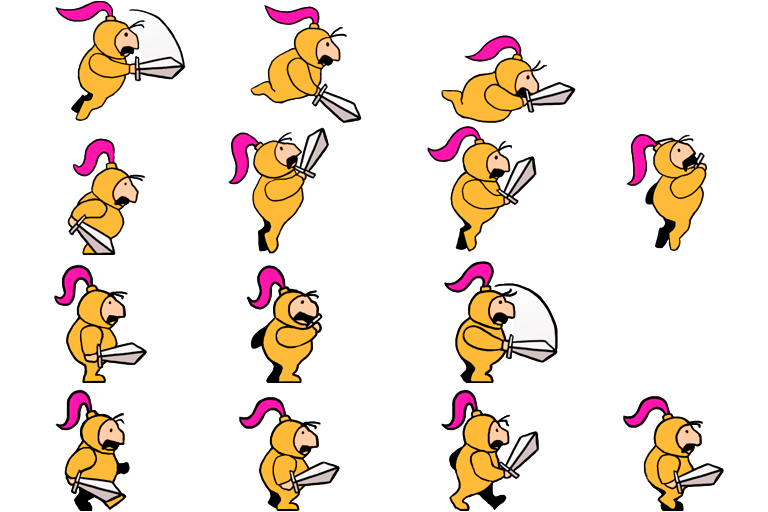
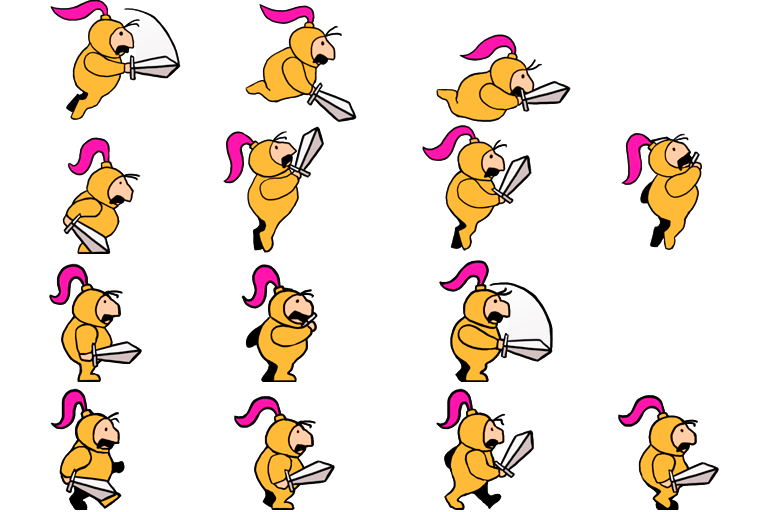
モーション変更

diff --git a/src/app.js b/src/app.js
@@ -2,11 +2,11 @@ var size;
 //1:地面　2:ブロック　3:プレイヤ　4:ゾンビ 5:こうもり
 var level = [
    [0, 0, 0, 0, 0, 0, 0, 0, 0, 0],
-   [0, 0, 0, 0, 0, 0, 0, 0, 0, 0],
+   [0, 0, 0, 0, 0, 0, 0, 5, 0, 0],
    [0, 0, 0, 0, 0, 0, 2, 2, 2, 0],
    [6, 0, 0, 0, 0, 0, 0, 0, 0, 7],
    [0, 0, 0, 2, 2, 2, 0, 0, 0, 0],
-   [0, 0, 0, 0, 3, 0, 0, 5, 4, 0],
+   [0, 0, 0, 0, 3, 0, 0, 0, 4, 0],
    [1, 1, 1, 1, 1, 1, 1, 1, 1, 1]
 ];
 var tileSize = 96;
@@ -146,7 +146,7 @@ var Player = cc.Sprite.extend({
       for (i = 0; i < 7; i++) {　　　　　　
          for (j = 0; j < 10; j++) {
             if (level[i][j] == 3) {
-               this.setPosition(tileSize / 2 + tileSize * j, 96 * (7 - i) - tileSize / 1.6);
+               this.setPosition(tileSize / 2 + tileSize * j, 96 * (7 - i) - tileSize / 2);
                playerPosition = {
                   x: j,
                   y: i
@@ -155,29 +155,23 @@ var Player = cc.Sprite.extend({
          }
       }
       //this.schedule(this.working,0.08);
-
-        // 2.　SpriteFrame　を利用しての歩行アニメーション
-          //スプライトフレームを格納する配列
-          var animationframe = [];
-          //スプライトフレームを作成
-          var frame1 = new cc.SpriteFrame(res.player01_png, cc.rect(0, 0, 96, 120));
-          var frame2 = new cc.SpriteFrame(res.player02_png, cc.rect(0, 0, 96, 120));
-          var frame3 = new cc.SpriteFrame(res.player03_png, cc.rect(0, 0, 96, 120));
-          var frame4 = new cc.SpriteFrame(res.player04_png, cc.rect(0, 0, 96, 120));
-          var frame5 = new cc.SpriteFrame(res.player05_png, cc.rect(0, 0, 96, 120));
-          //スプライトフレームを配列に登録
-          animationframe.push(frame1);
-          animationframe.push(frame2);
-          animationframe.push(frame3);
-          animationframe.push(frame4);
-          animationframe.push(frame5);
-          //スプライトフレームの配列を連続再生するアニメーションの定義
-          var animation = new cc.Animation(animationframe, 0.4);
-          //永久ループのアクションを定義
-          var action = new cc.RepeatForever(new cc.animate(animation));
-          //実行
-          this.runAction(action);
-
+             /*
+               // 2.　SpriteFrame　を利用しての歩行アニメーション
+                 //スプライトフレームを格納する配列
+                 var animationframe = [];
+                 //スプライトフレームを作成
+                 var frame1 = new cc.SpriteFrame(res.player01_png, cc.rect(0, 0, 96, 96));
+                 var frame2 = new cc.SpriteFrame(res.player02_png, cc.rect(0, 0, 96, 96));
+                 //スプライトフレームを配列に登録
+                 animationframe.push(frame1);
+                 animationframe.push(frame2);
+                 //スプライトフレームの配列を連続再生するアニメーションの定義
+                 var animation = new cc.Animation(animationframe, 0.08);
+                 //永久ループのアクションを定義
+                 var action = new cc.RepeatForever(new cc.animate(animation));
+                 //実行
+                 this.runAction(action);
+             */
 /*
           //３．テクスチャーからスプライトフレームを切り出す方法
               //スプライトフレームを格納する配列
@@ -203,15 +197,21 @@ var Player = cc.Sprite.extend({
       // スプライトフレームを取得 player01,player02はplistの中で定義されいいる
       var frame1 = cc.spriteFrameCache.getSpriteFrame("player01");
       var frame2 = cc.spriteFrameCache.getSpriteFrame("player02");
+      var frame3 = cc.spriteFrameCache.getSpriteFrame("player03");
+      var frame4 = cc.spriteFrameCache.getSpriteFrame("player04");
+      var frame5 = cc.spriteFrameCache.getSpriteFrame("player05");
 
       //スプライトフレームを配列に登録
       var animationframe = [];
       animationframe.push(frame1);
       animationframe.push(frame2);
+      animationframe.push(frame3);
+      animationframe.push(frame4);
+      animationframe.push(frame5);
       //スプライトフレームの配列を連続再生するアニメーションの定義
-      var animation = new cc.Animation(animationframe, 0.8);
+      var animation = new cc.Animation(animationframe, 0.08);
       //永久ループのアクションを定義
-      //var action = new cc.RepeatForever(new cc.animate(animation));
+      var action = new cc.RepeatForever(new cc.animate(animation));
       //実行
       this.initWithFile(res.player_sheet);
       this.runAction(action);

diff --git a/src/EnemyBat.js b/src/EnemyBat.js
@@ -20,7 +20,7 @@ var EnemyBat = cc.Sprite.extend({
     for (i = 0; i < 7; i++) {　　　　　　
       for (j = 0; j < 10; j++) {
         if (level[i][j] == 5) {
-          this.setPosition(tileSize / 2 + tileSize * j, 96 * (7 - i) - tileSize / 2);
+          this.setPosition(tileSize / 2 + tileSize * j, tileSize);
         }
       }
     }
@@ -29,11 +29,25 @@ var EnemyBat = cc.Sprite.extend({
     var animationframe = [];
 
     var frame1 = new cc.SpriteFrame(res.zonbi01_png, cc.rect(0, 0, 96, 120));
+    var frame2 = new cc.SpriteFrame(res.zonbi02_png, cc.rect(0, 0, 96, 120));
+    var frame3 = new cc.SpriteFrame(res.zonbi03_png, cc.rect(0, 0, 96, 120));
+    var frame4 = new cc.SpriteFrame(res.zonbi04_png, cc.rect(0, 0, 96, 120));
+    var frame5 = new cc.SpriteFrame(res.zonbi05_png, cc.rect(0, 0, 96, 120));
+    var frame6 = new cc.SpriteFrame(res.zonbi06_png, cc.rect(0, 0, 96, 120));
+    var frame7 = new cc.SpriteFrame(res.zonbi07_png, cc.rect(0, 0, 96, 120));
+    var frame8 = new cc.SpriteFrame(res.zonbi08_png, cc.rect(0, 0, 96, 120));
         //スプライトフレームを作成
         animationframe.push(frame1);
+        animationframe.push(frame2);
+        animationframe.push(frame3);
+        animationframe.push(frame4);
+        animationframe.push(frame5);
+        animationframe.push(frame6);
+        animationframe.push(frame7);
+        animationframe.push(frame8);
 
     //スプライトフレームの配列を連続再生するアニメーションの定義
-    var animation = new cc.Animation(animationframe, 0.08);
+    var animation = new cc.Animation(animationframe, 0.3);
     //永久ループのアクションを定義
     var action = new cc.RepeatForever(new cc.animate(animation));
     //実行

diff --git a/src/resource.js b/src/resource.js
@@ -23,6 +23,13 @@ var res = {
   bat_frames: "res/bat_frames.png",
   zonbi_frames: "res/zombie_frames.png",
   zonbi01_png: "res/zonbi1.png",
+  zonbi02_png: "res/zonbi2.png",
+  zonbi03_png: "res/zonbi3.png",
+  zonbi04_png: "res/zonbi4.png",
+  zonbi05_png: "res/zonbi5.png",
+  zonbi06_png: "res/zonbi6.png",
+  zonbi07_png: "res/zonbi7.png",
+  zonbi08_png: "res/zonbi8.png",
 
 };
 
